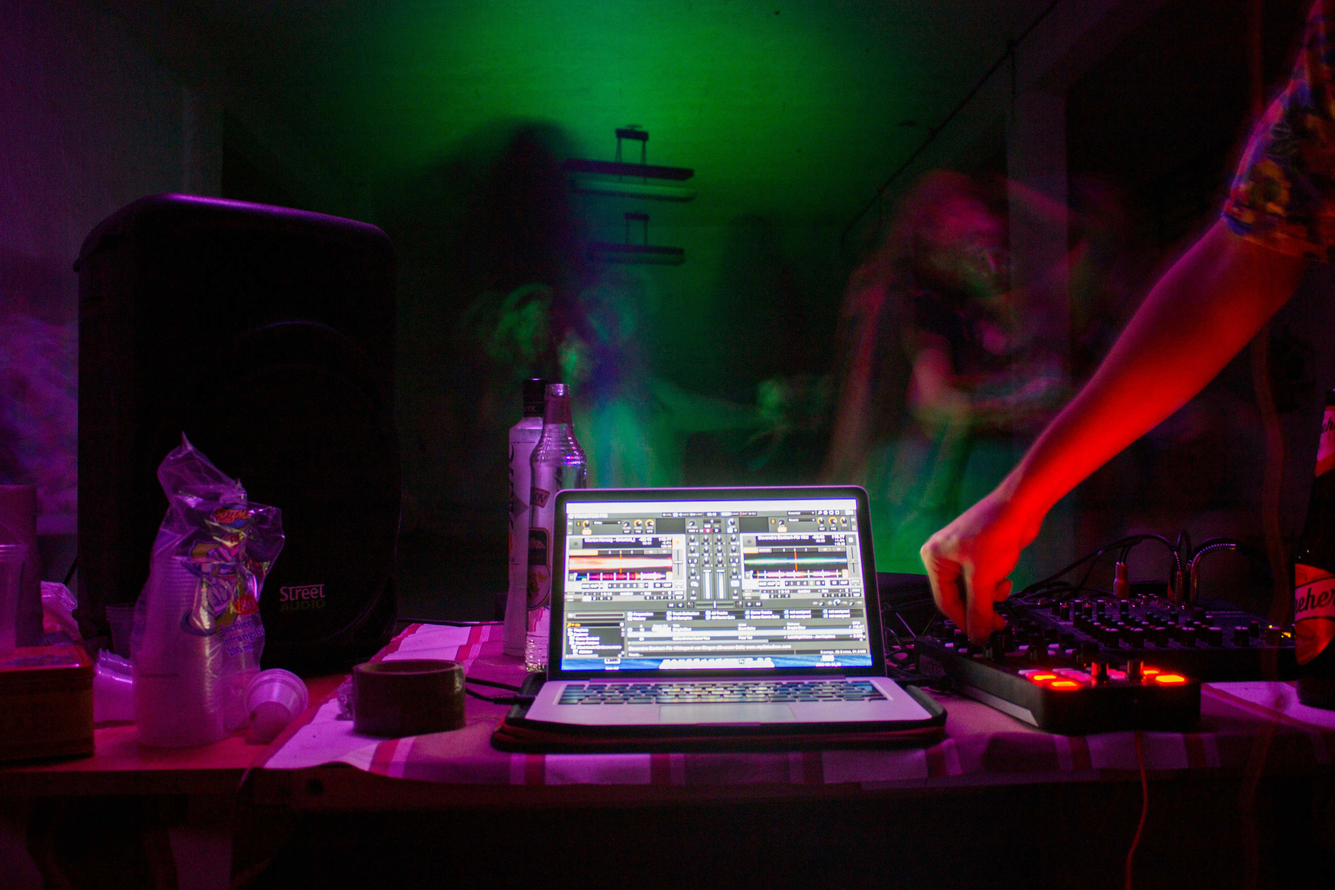
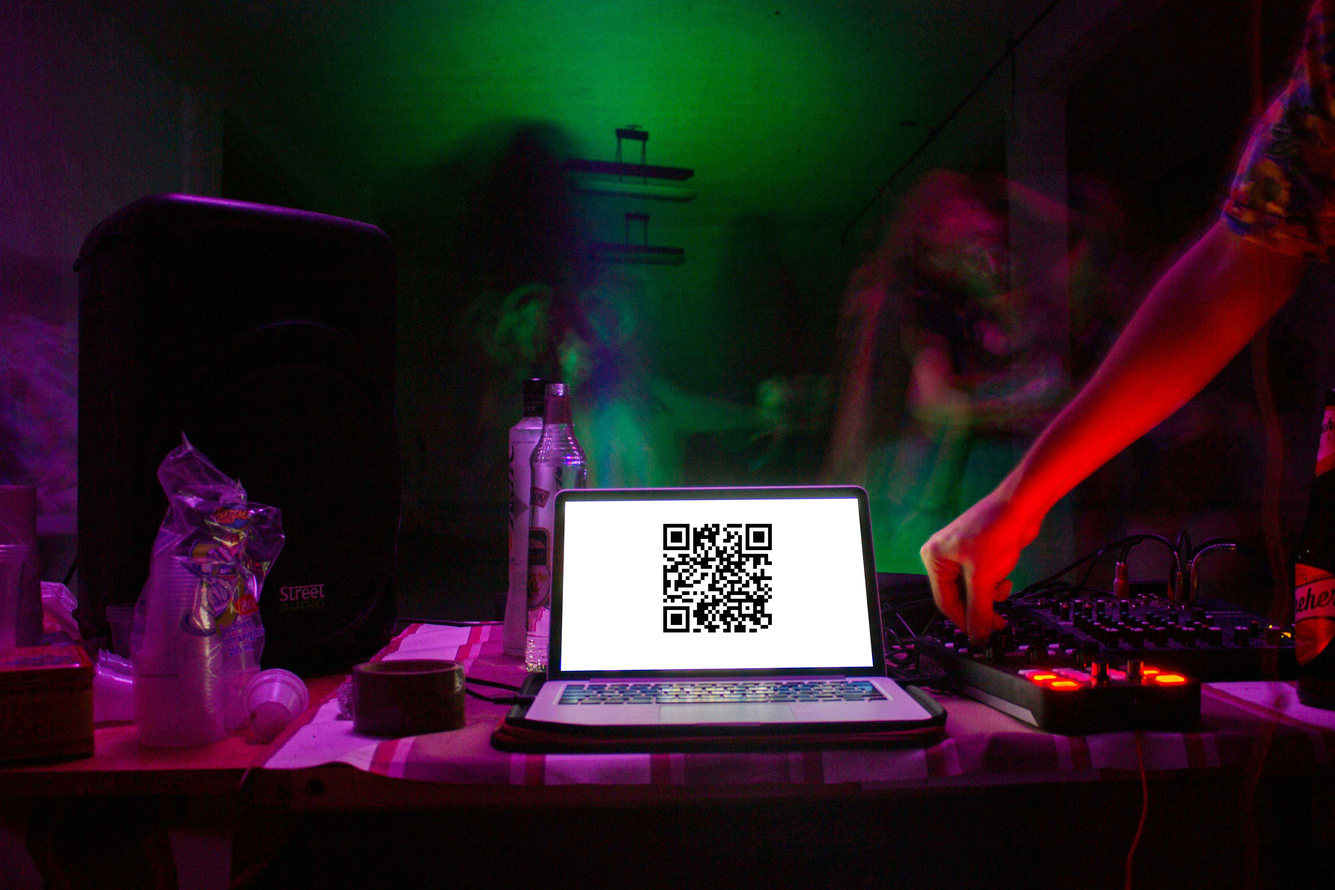
Updt 1.2
Update 1.2 - Web OPT Slike / Redesign / Css Rehaul.

Changed region(s): [[0.4062, 0.5625, 0.6562, 0.7812]]

diff --git a/index.html b/index.html
@@ -30,41 +30,54 @@
 			<h3> xx.xx.2023 - xx.xx.2024 </h3>
 		</section>
 		<section class="pozadina1">
-			<h2 class="outline"> Najbolji festival ove godine! </h2>
-			<p class="outline"> Skenirajte QR kod za lokaciju </p>
+			<h2 class="outline uSlici"> Najbolji Festival Ove Godine! </h2>
+			<h3 class="outline uSlici"> Hoćeš Biti <span id="belo">1</span> Ili <span id="belo">0</span>? </h3>
 		</section>
 		<section class="contentVert">
-			<p> ili stisnite</p>
-			<div class="fakeDugme"><a href="karte.html#lokacijaSlika"> Lokacija </a></div>
-		</section>
+		<h2> Ko sve dolazi? </h2>
+		<p> Ovo su neki od potvrdjenih izvodjaca <strong>za sada</strong></p>
 		<section class="contentLD">
 			<div class="sadrzaj">
-				<div class="levo"><h3> Skrillex</h3> <p> Skrillex, born Sonny John Moore, is an American electronic music producer, DJ, singer, and songwriter. He became a global phenomenon in the electronic dance music (EDM) scene, particularly for his pioneering work in dubstep and brostep. Skrillex's groundbreaking EP "Scary Monsters and Nice Sprites" </p></div>
-				<div class="desno"><img src="images/skrillex.jpg" alt="Skrillex"	id="slikaSkrlx"></div>
+				<div class="levo"><h3>Lucki!</h3> <p> Lucki, je reper iz Čikaga poznat po svom prepoznatljivom stilu i introspektivnom lirizmu. Pojavivši se sa živahne gradske hip-hop scene, Lucki je privukao pažnju svojim jedinstvenim pristupom repu, mešajući melodične elemente sa oštrim, ulično orijentisanim narativima.. </p></div>
+				<div class="desno"><img src="images/lucki.jpg" alt="Lucki"	class="landingPortret"></div>
 			</div>
 		</section>
 		<section class="contentLD">
 			<div class="sadrzaj">
-				<div class="levo"><img src="images/yunglean.jpg" alt="yungLean" id="slikaYungLean"></div>
-				<div class="desno"><h3> YUNG LEAN</h3> <p> Yung Lean, born Jonatan Leandoer Håstad, rose to prominence as a Swedish rapper, singer, and songwriter. He gained attention in the early 2010s for his distinctive style, blending cloud rap and trap elements with his melancholic and often surreal lyrics. Yung Lean's early work, including the mixtape "Unknown Death 2002" </p></div>
+				<div class="levo"><img src="images/yunglean.jpg" alt="yungLean" class="landingPortret"></div>
+				<div class="desno"><h3> YUNG LEAN</h3> <p> Yung Lean, švedski reper, pevač i tekstopisac. Privukao je pažnju početkom 2010-ih zbog svog karakterističnog stila, mešajući </br> "cloud rap" i trap elemente sa svojim melanholičnim i često nadrealnim tekstovima. Yung Lean se probio na scenu sa svojim mikstejpom "Unknown Death 2002" </p></div>
 			</div>
 		</section>
+		<section class="contentLD">
+			<div class="sadrzaj">
+				<div class="levo"><h3>A$AP ROCKY</h3> <p> Odrastajući u Harlemu u Njujorku, A$AP Rocky je bio izložen različitim muzičkim uticajima, uključujući hip-hop, soul i elektronsku muziku. Njegov jedinstveni pristup modi i individualnosti postao je sinonim za A$AP Mob, kolektiv umetnika čiji je suosnivač, dodatno učvrstivši svoj uticaj i na muziku i na stil. </p></div>
+				<div class="desno"><img src="images/rocky.jpg" alt="Rocky" class="landingPortret"></div>
+			</div>
+		</section>
+		<hr/>
+			<h3>Proveri ceo line-up klikom dole:</h3>
+			<div class="fakeDugme"><a href="lineup.html">line-up</a></div>
+		</section>
+		<section class="pozadina2">
+		</section>
 		<section class="contentVert">
-			<h3> Proveri ceo line-up klikom dole: </h3>
-			<div class="fakeDugme"><a href="lineup.html">Klik</a></div>
-			<h2> Karte su u "pre-sale" fazi! </h2>
-			<p> Proverite nase pakete karata klikom dole </p>
+			<h2> Karte su VEĆ u "pre-sale" fazi! </h2>
+			<p> Proveri naše pakete i cene, i VEĆ izaberi pravi za sebe. Više informacija ispod</p>
 			<div class="fakeDugme"><a href="karte.html">Karte</a></div>
 		</section>
+		<section class="pozadina3">
+		</section>
+		<section class="contentVert">
+			<h4>Proverite gde, kad i kako klikom dole</h4>
+			<div class="fakeDugme"><a href="karte.html#lokacijaSlika">Lokacija</a></div>
+		</section>
 		<section class="pozadina1">
-			<h2 class="outline"> Najbolji festival ove godine! </h2>
-			<p class="outline"> Skenirajte QR kod za lokaciju </p>
 		</section>
 	</div>
 	<footer>
         <div class="footer">
 				<div id="levo">
-						<p><strong>Lokacija:</strong>AesHaven</p>
+						<p><strong>Lokacija:</strong>ICT College</p>
 						<p><strong>Kontakt:</strong>andrej.gladovic.149.23@ict.edu.rs</p>
 						<p><strong>Datumi:</strong>xx.xx.2023 - xx.xx.2024</p>
 				</div>

diff --git a/css/style.css b/css/style.css
@@ -117,14 +117,30 @@ header{
     text-align: center;
     padding: 20px;
     margin: 10px;
-    border: 2px dashed #ccc;
+	border: 2px dashed #ccc;
 }
 .pozadina1 {
     background-image: url("../images/djlanding.jpg"); 
 	width: 100%;
     background-size: cover;
     background-attachment: fixed;
-    padding: 125px 0;
+    padding: 150px 0;
+}
+.pozadina2 {
+    background-image: url("../images/festlanding.jpg"); 
+	width: 100%;
+    background-size: cover;
+	background-position: 25% 80%;
+    padding: 250px 0;
+	filter: grayscale(1);
+}
+.pozadina3 {
+    background-image: url("../images/dplanding.jpg"); 
+	width: 100%;
+    background-size: cover;
+	background-position: 10% 40%;
+    padding: 200px 0;
+	filter: grayscale(1);
 }
 .telo h1{
 	font-family: "Roboto Mono";
@@ -154,14 +170,15 @@ header{
 .telo p{
 	font-family: "Roboto Mono";
 	font-weight: 300;
-	color: #1FC600;
+	color: white;
 	text-align: center;
 	font-size: 18px;
 }
+.telo 
 #lokacijaSlika{
 	align-items: center;
 	justify-content: center;
-	background-image: url("../images/lokacija.png"); 
+	background-image: url("../images/lokacija.jpg"); 
 	height: 275px;
 	background-repeat: no-repeat;
 }
@@ -193,11 +210,12 @@ header{
 	color: white;
 	border: 0px solid white;
 }
-.forma input:hover{
-	box-shadow: 2px 3px 3px rgba(12, 78, 0, 1);
+.forma input[type="submit"]:hover{
+	box-shadow: 0px 0px 4px #1FC600;
 }
 .forma input[type="submit"]{
 	width: 20%;
+	transition: 0.2s;
 }
 .forma select{
 	text-align: center;
@@ -238,47 +256,64 @@ header{
 	font-weight: 300;
 }
 
+/* Dugme */
+.fakeDugme a{
+	text-decoration: none;
+	color: white;
+	padding: 10px;
+	border-radius: 5px;
+	background-color: #36373D;
+}
+.fakeDugme{
+	font-size: 18px;
+	font-family: "Roboto Mono";
+	margin-top: 20px;
+	margin-bottom: 10px;
+	text-decoration: none;
+	text-transform: uppercase;
+	transition: 0.1s ease-out;
+}
+.fakeDugme a:hover{
+	border-bottom: 3px solid #1FC600;
+}
+.fakeDugme a:active{
+	background-color: white;
+	color: black;
+	border-bottom: 3px solid #1FC600;
+}
 /* Case specific*/
 #cena{
 	padding-top: 20px;
 	text-align: center;
 	font-weight: 600;
 }
-.telo img{
-	width: 15%;
-}
-#slikaSkrlx{
+.landingPortret{
 	border: 2px dashed white;
 	border-radius: 15px;
 	width: 50%;
-}
-#slikaYungLean{
-	width: 50%;
-	border-radius: 15px;
-	border: 2px dashed white;
-}
-.outline{
-	text-shadow: 
-    1px 0 0 black, /*right */
-    0 1px 0 black, /*top */
-    -1px 0 0 black, /*left */
-    0 -1px 0 black; /*bottom */
-}
-.contentVert a{
-	text-decoration: none;
-	color: white;
-	padding: 10px;
-	border-radius: 10px;
-	border: 1px solid #ccc;
-}
-.fakeDugme{
-	margin-top: 20px;
-	margin-bottom: 10px;
 }
 #picJa{
 	width: 400px;
 	border: 2px dashed white;
 	border-radius: 15px;
+}
+.outline{
+	text-shadow: 
+    1px 0 0 black, 
+    0 1px 0 black, 
+    -1px 0 0 black,
+    0 -1px 0 black;
+}
+.uSlici{
+	font-size: 60px;
+}
+#belo{
+	color: white;
+	text-decoration: underline;
+}
+hr{
+	margin: 20px 0px;
+	border: 2px dashed white;
 }
 /* O meni Slike Cont */
 .contentLSD{
@@ -290,8 +325,10 @@ header{
 }
 .slikaO img{
 	width: 600px;
-	border-radius: 20px;
+	border-radius: 15px;
 	border: 2px solid white;
+	opacity: 0;
+	animation: fade 0.5s forwards;
 }
 .slikaO{
 	margin: 0px auto;
@@ -328,11 +365,8 @@ header{
 .slika:hover{
 	visibility: visible;
 	filter: grayscale(0);
-	transform: scale(1.10, 1.10);
-	transition: all 0.15s ease;
-}
-.slika h4:hover{
-	visibility: visible;
+	transform: scale(1.05, 1.05);
+	transition: all 0.2s ease;
 }
 .slika h4{
 	text-shadow:  1px 1px white;
@@ -386,4 +420,14 @@ header{
 }
 .divider{
 	margin-bottom: 25px;
+}
+
+/* animacija test */
+@keyframes fade {
+    from {
+        opacity: 0;
+    }
+    to {
+        opacity: 1;
+    }
 }

diff --git a/omeni.html b/omeni.html
@@ -28,12 +28,12 @@
 			<div class="sadrzaj">
 				<div class="levo">
 					<h1> O meni </h1>
-					<p> Zovem se <strong>Andrej Gladovic</strong>. Studiram na Visoj ICT skoli.</p> <p> U slobodno vreme bavim se video editingom, i fotografisanjem.</br> Zavrsio sam Petu Beogradsku Gimnaziju, drustveni smer.</p>
+					<p> Zovem se <strong>Andrej Gladović</strong>. Trenutno studiram na Višoj ICT školi.</br>U Slobodno vreme bavim se video editingom, i fotografisanjem. Završio sam Petu Beogradsku Gimnaziju, društveni smer.</p>
 				</div>
 				<div class="desno"><img src="images/ja.jpg" alt="Slika Autora"	id="picJa"></div>
 			</div>
 		</section>
-		<h2 class="divider"> Neke od mojih slika</h2>
+		<h2 class="divider"> Neke od mojih fotografija</h2>
 		<section class="contentLSD">
 			<div class="slikaO"><img src="images/moja1.jpg" alt="mojaSlika1"></div>
 			<div class="slikaO"><img src="images/moja2.jpg" alt="mojaSlika1"></div>
@@ -43,7 +43,7 @@
 	<footer>
         <div class="footer">
 				<div id="levo">
-						<p><strong>Lokacija:</strong>AesHaven</p>
+						<p><strong>Lokacija:</strong>ICT College</p>
 						<p><strong>Kontakt:</strong>andrej.gladovic.149.23@ict.edu.rs</p>
 						<p><strong>Datumi:</strong>xx.xx.2023 - xx.xx.2024</p>
 				</div>

diff --git a/karte.html b/karte.html
@@ -55,7 +55,7 @@
 					<td>Pristup sponzorisanim aktivnostima </td>
 				</tr>
 				<tr>
-					<td>Priority Q </td>
+					<td>Priority Q</td>
 				</tr>
 				<tr>
 					<td>Klimatizovani toaleti</td>
@@ -74,7 +74,7 @@
 					<th class="tabelaNaslov">Very Important People (VIP)</th>
 				</tr>
 				 <tr>
-					<td>Besplatna hrana i pice</td>
+					<td>Besplatna hrana i piće</td>
 				</tr>
 				<tr>
 					<td>Vip Lounge</td>
@@ -91,7 +91,7 @@
 			</table>
 		</div>
 				<section class="divier">
-					<h2>Forma za kupovinu karata</h2>
+					<h2>Forma Za Kupovinu Karata</h2>
 				</section>
 		<div class="forma">
 			<form>
@@ -110,6 +110,7 @@
                 <input type="submit" value="KUPI">
             </form>
 		</div>
+		<hr/>
 		<section class="divider">
 			<h2> Lokacija Dogadjaja </h2>
 		</section>
@@ -118,7 +119,7 @@
 	<footer>
         <div class="footer">
 				<div id="levo">
-						<p><strong>Lokacija:</strong>AesHaven</p>
+						<p><strong>Lokacija:</strong>ICT College</p>
 						<p><strong>Kontakt:</strong>andrej.gladovic.149.23@ict.edu.rs</p>
 						<p><strong>Datumi:</strong>xx.xx.2023 - xx.xx.2024</p>
 				</div>

diff --git a/lineup.html b/lineup.html
@@ -25,11 +25,11 @@
 	</header>
 	<div class="telo">
 		<section class="contentVert">
-			<h1> Main:/ Lineup \: niaM </h1>
+			<h1>main:/ Line-Up \:niam</h1>
 		</section>
 		<section class="divider">
-		<h1>Main stage</h1>
-		<p>Na mainstage-u ce biti ludilo uz ove izvodjace...</p>
+		<h1>stage:/ Main Stage \:egats</h1>
+		<p>Na mainstage-u će biti ludilo uz ove izvođače...</p>
 		</section>
 		<section class="galerija">
 			<div class="slika sPrva">
@@ -55,8 +55,8 @@
 			</div>
 		</section>
 		<section class="divider">
-		<h1>X stage</h1>
-		<p> Dodjite da se topimo uz... </p>
+		<h1>stage:/ X Stage \:egats</h1>
+		<p>Produžite na after sa ovim izvođačima...</p>
 		</section>
 		<section class="galerija">
 			<div class="slika xPrva">
@@ -82,7 +82,7 @@
 	<footer>
         <div class="footer">
 				<div id="levo">
-						<p><strong>Lokacija:</strong>AesHaven</p>
+						<p><strong>Lokacija:</strong>ICT College</p>
 						<p><strong>Kontakt:</strong>andrej.gladovic.149.23@ict.edu.rs</p>
 						<p><strong>Datumi:</strong>xx.xx.2023 - xx.xx.2024</p>
 				</div>
